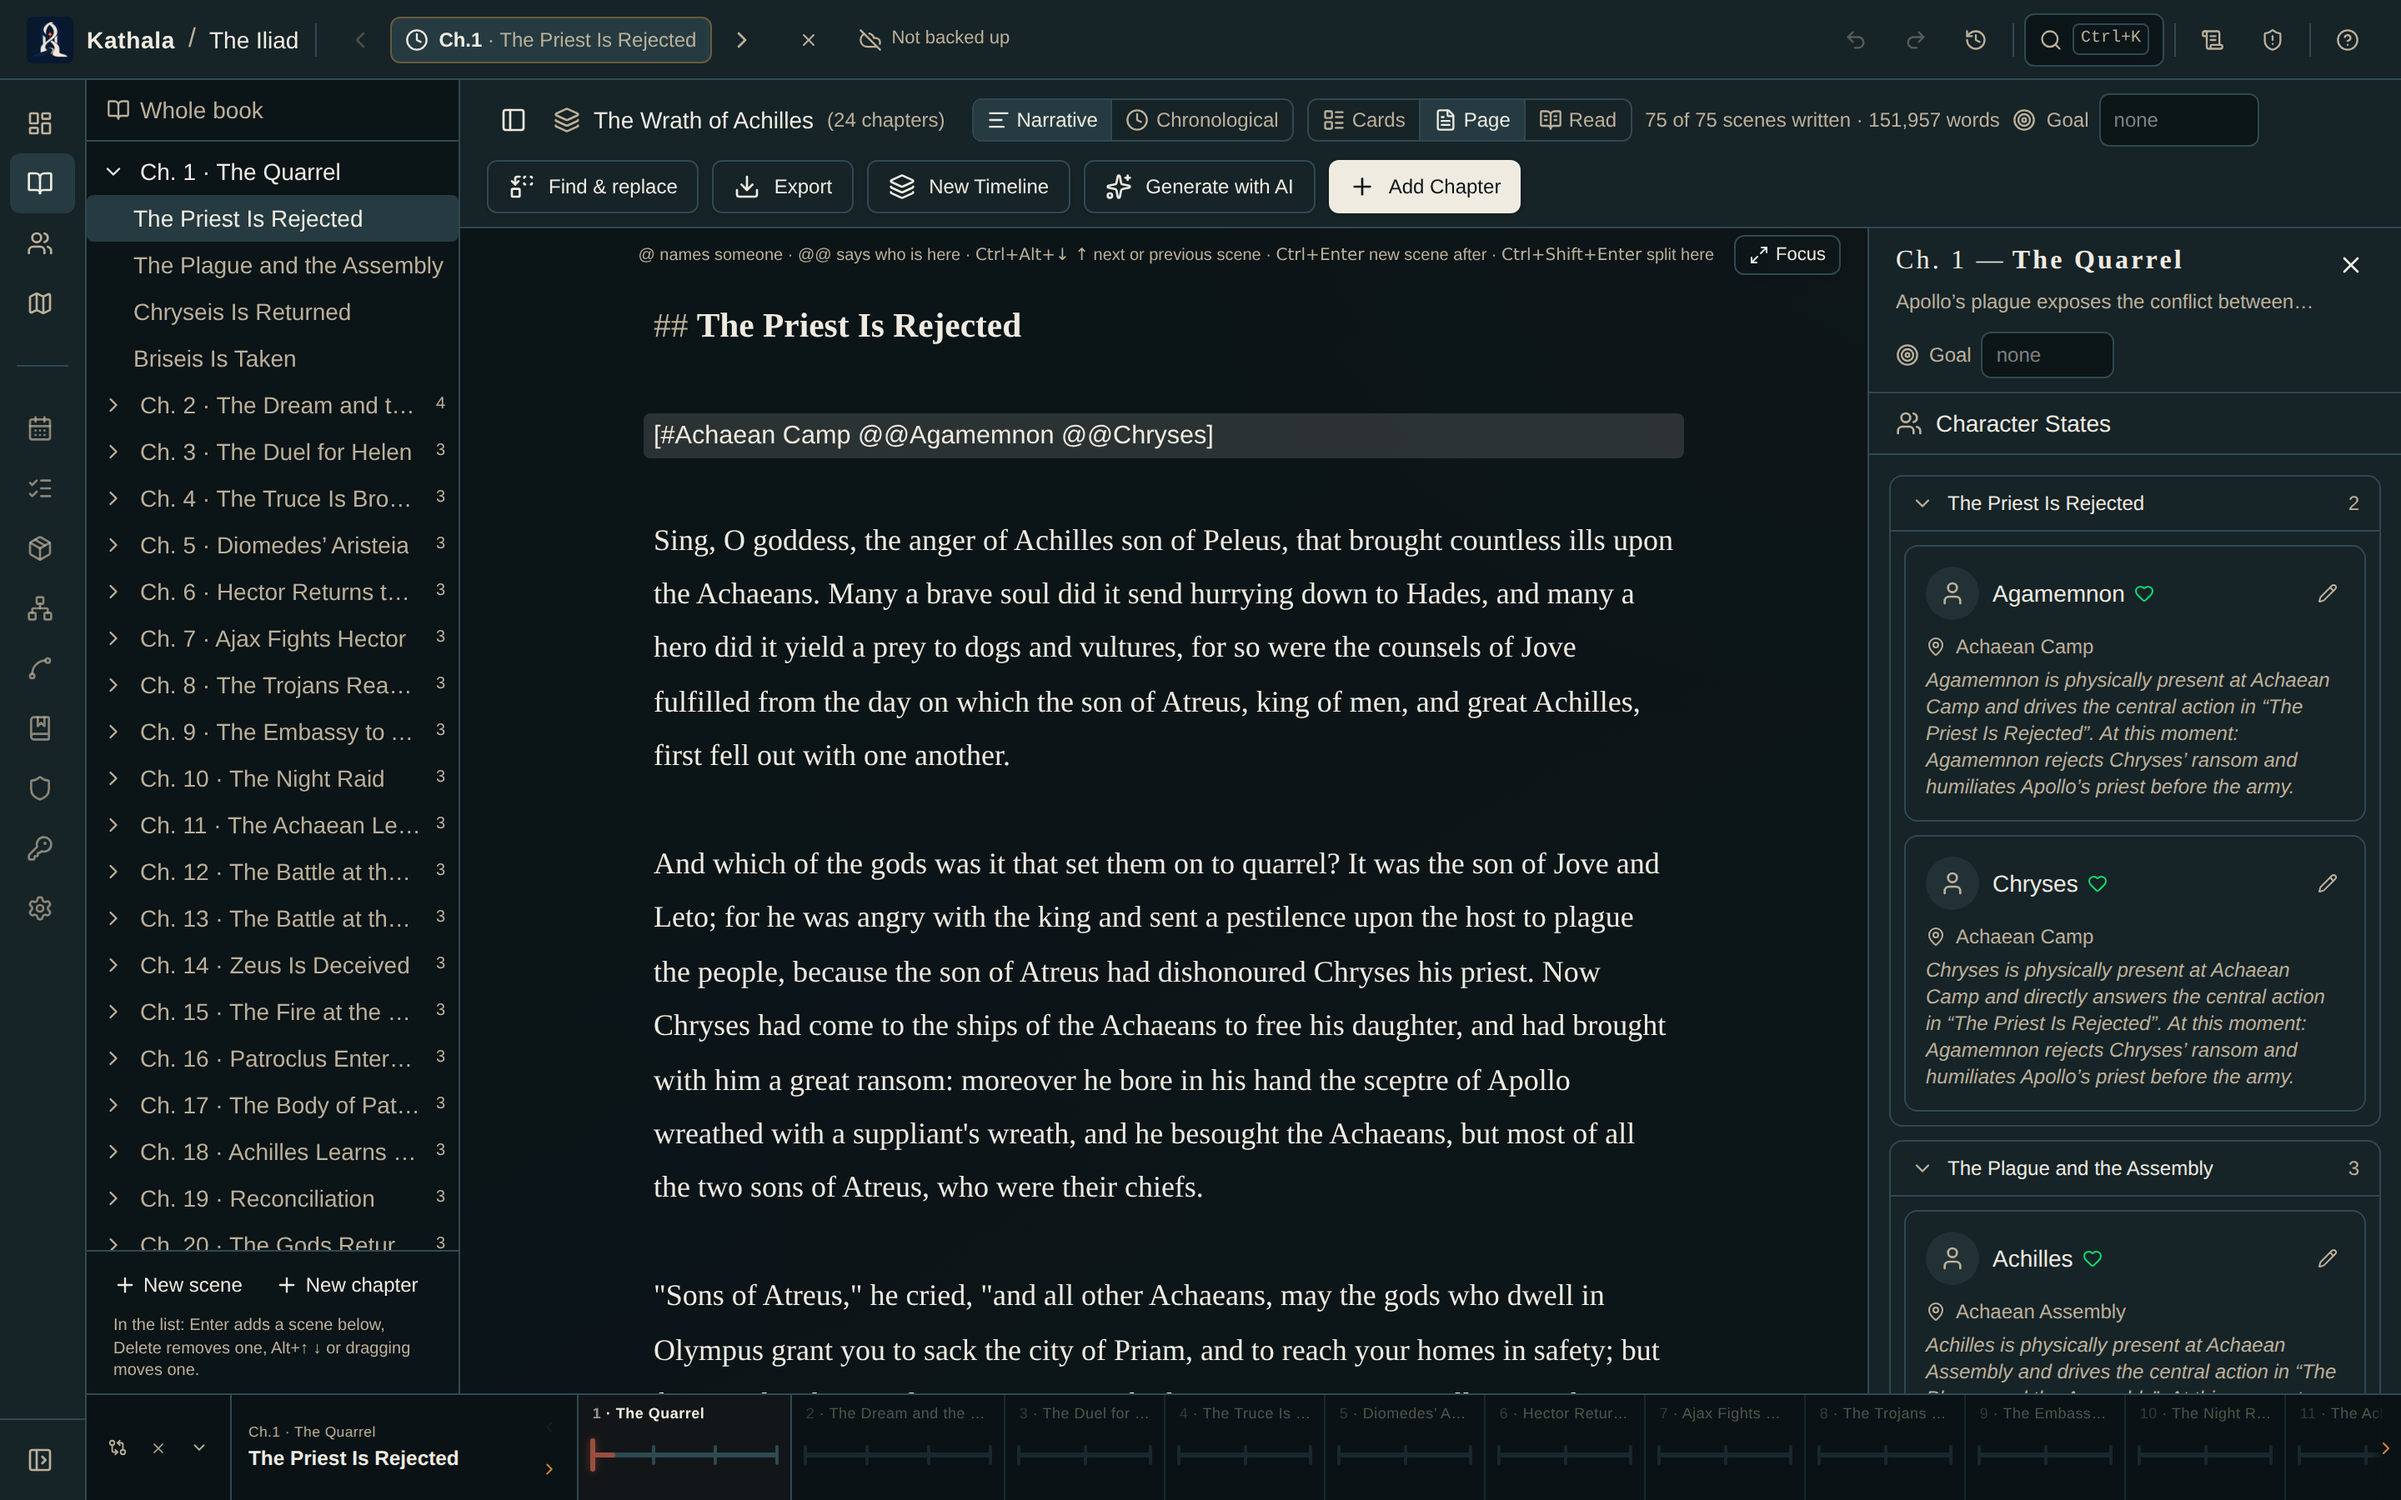
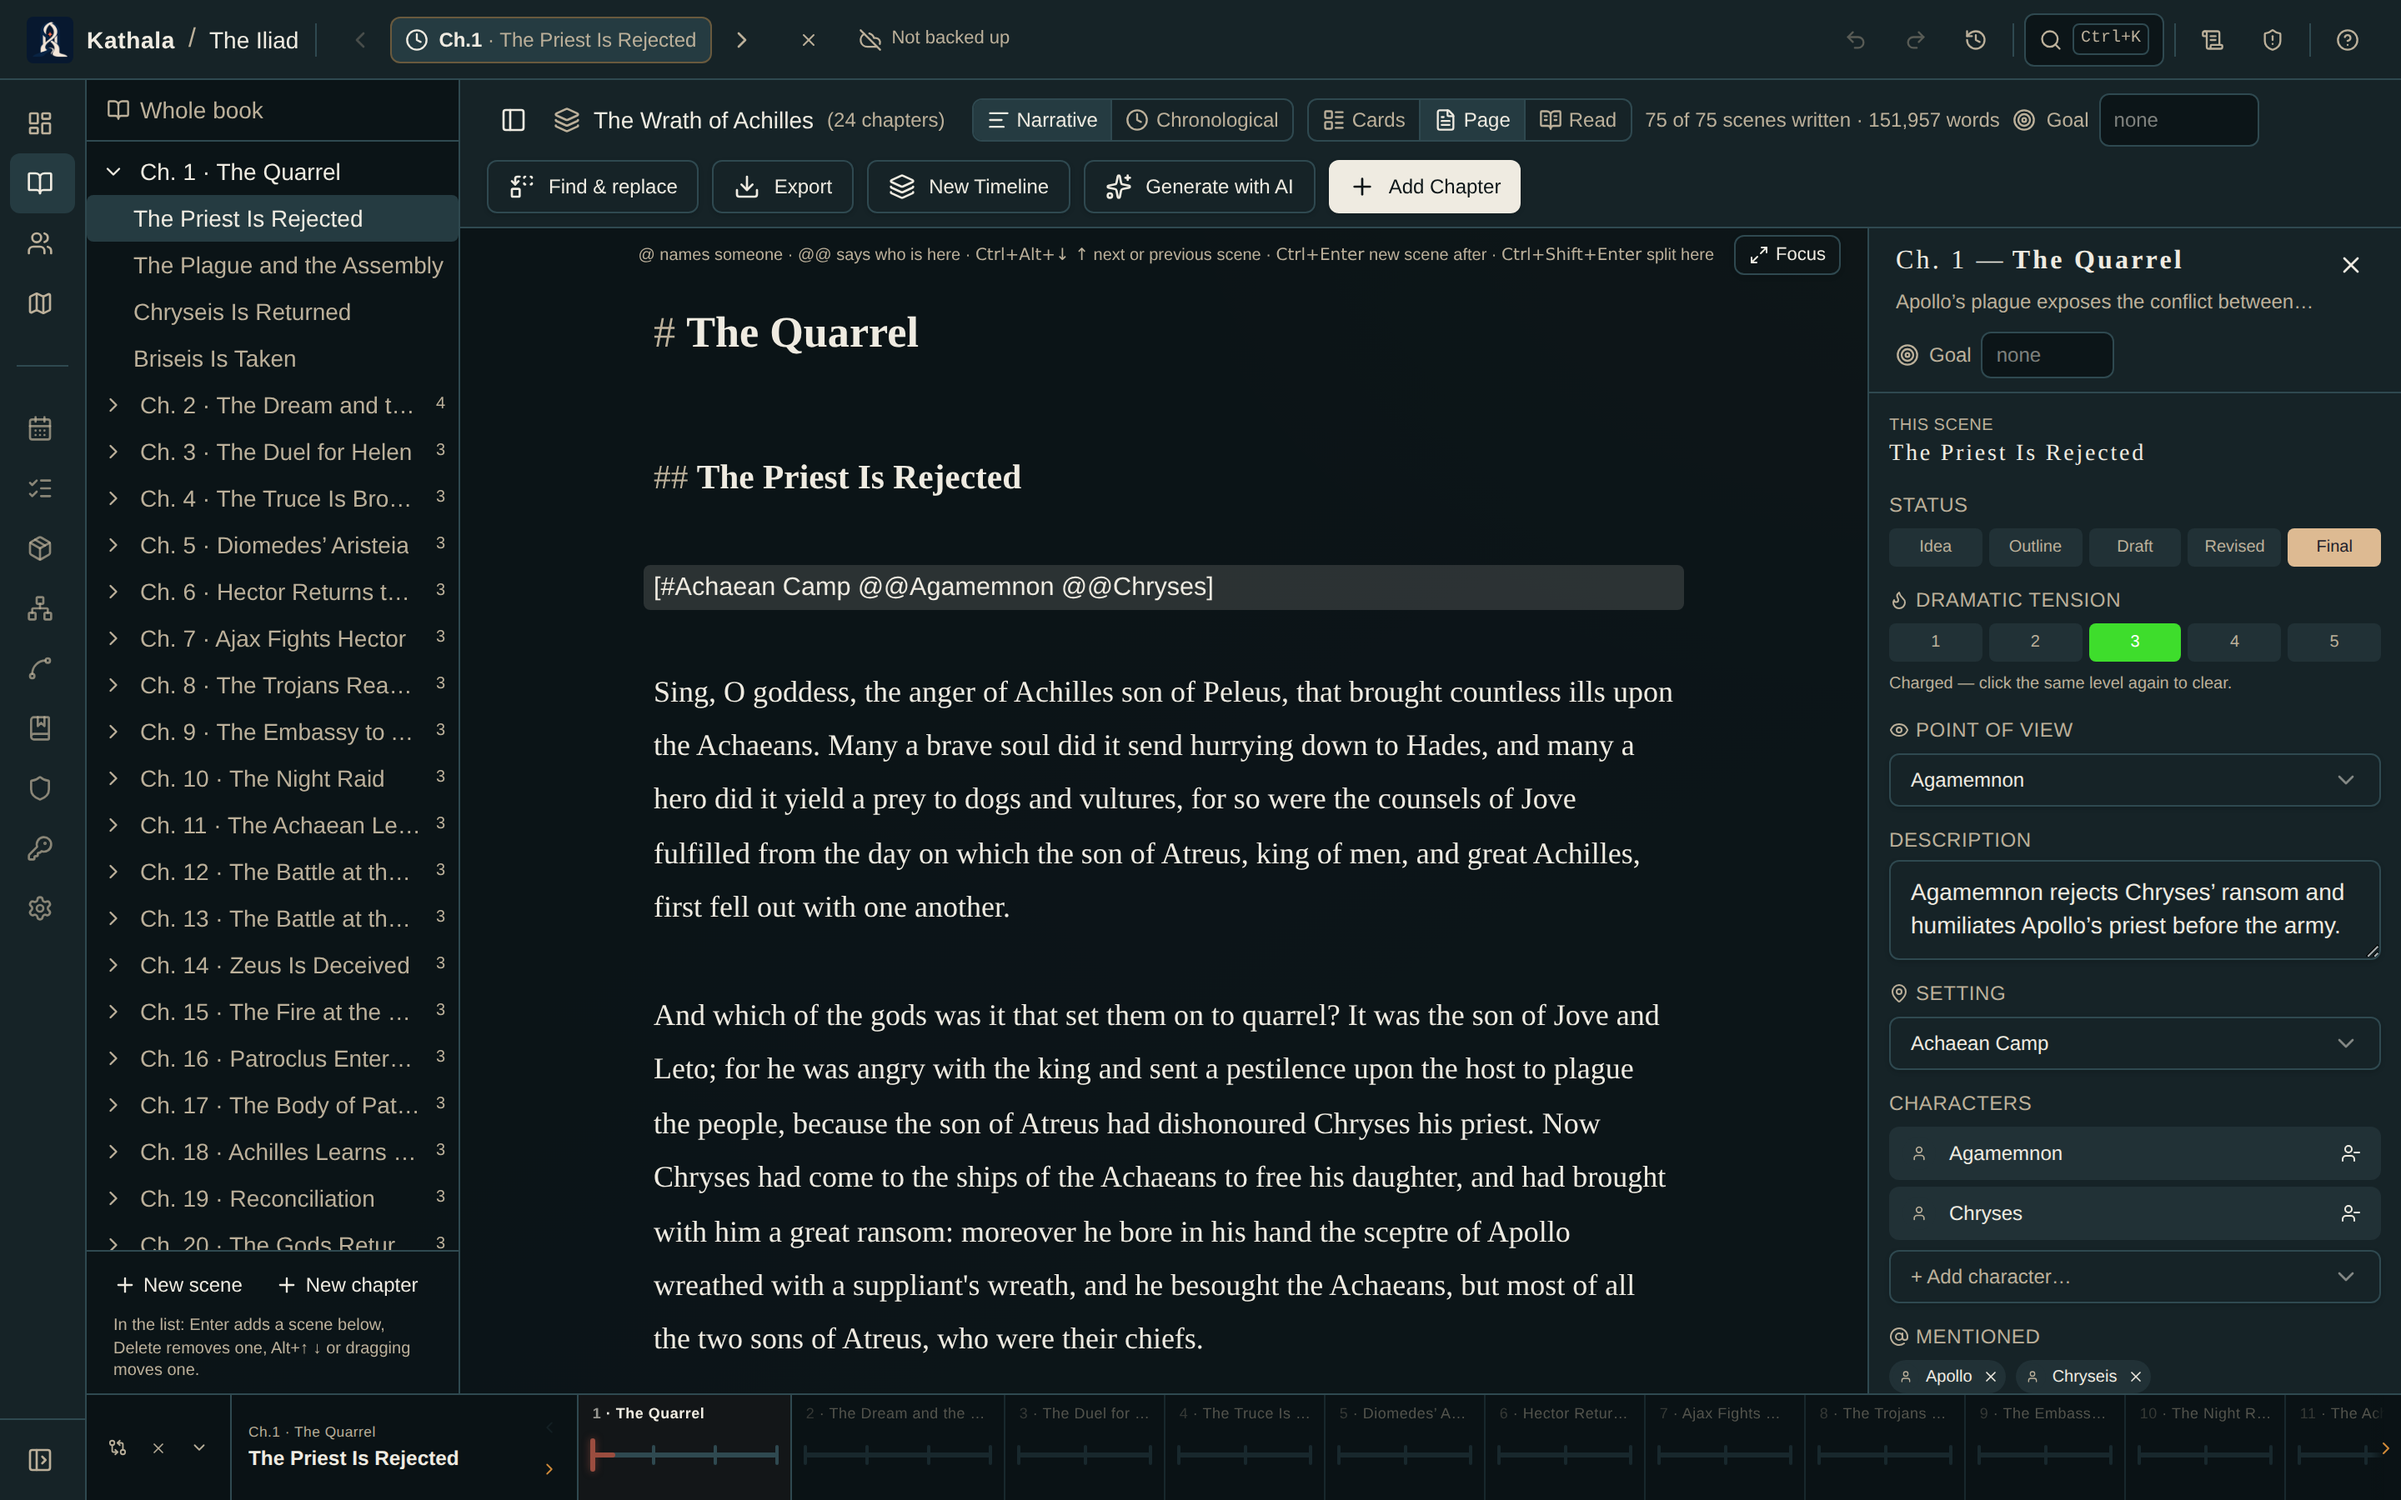
wip: docs — the Page's screenshot shows the scene's details
Claude-Session: https://claude.ai/code/session_012HJuZ3q12imk2q9iq8d945

Changed region(s): [[0.25, 0.1867, 0.7188, 0.9022], [0.7812, 0.28, 1.0, 0.9333]]

diff --git a/docs/GUIDE.md b/docs/GUIDE.md
@@ -962,7 +962,7 @@ and the same titles. Write anywhere in it. What you type is saved to the scene
 it sits under a second after you stop typing, or as soon as you click away from
 the page; retitle a chapter or scene by editing its heading.
 
-![The Manuscript's Page: the binder, the book as one document, and the open chapter's panel](images/72-page-view.png)
+![The Manuscript's Page: the binder, the book as one document, and the open chapter's panel led by the scene being written](images/72-page-view.png)
 
 - **The binder moves the page.** Pick a scene and the page goes to it, with the
   caret at the start of its prose; pick a chapter and its heading comes to the
